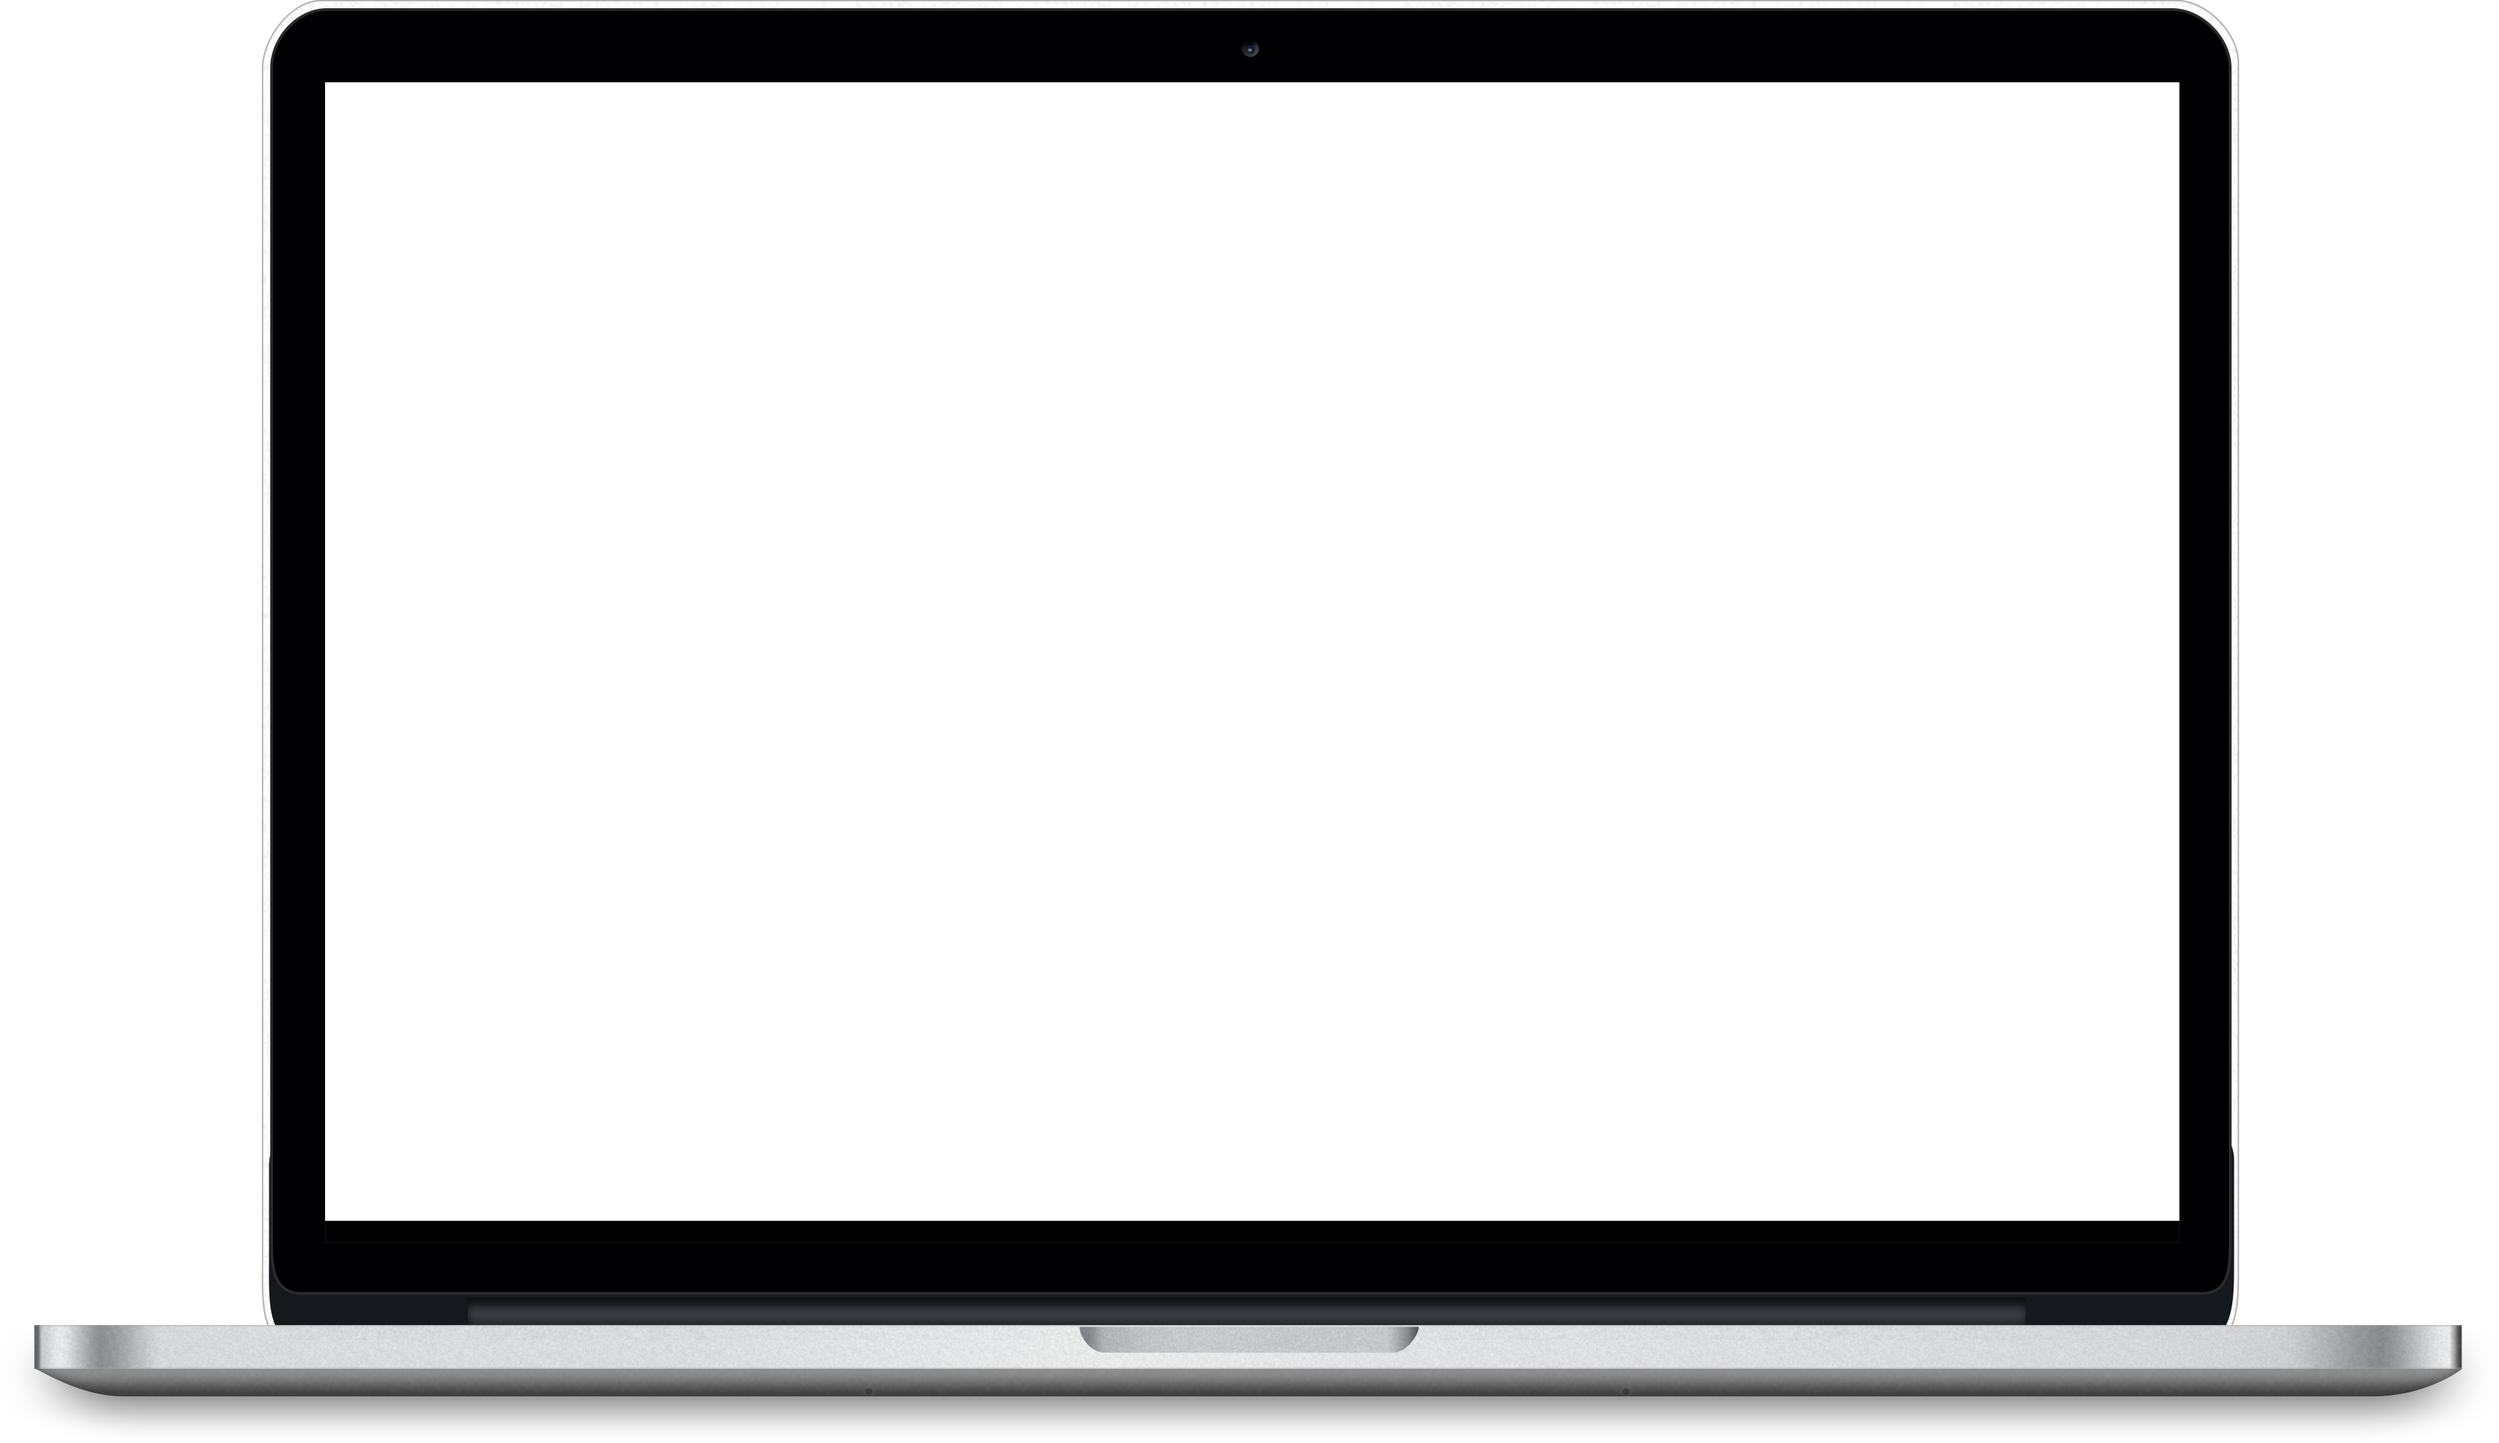
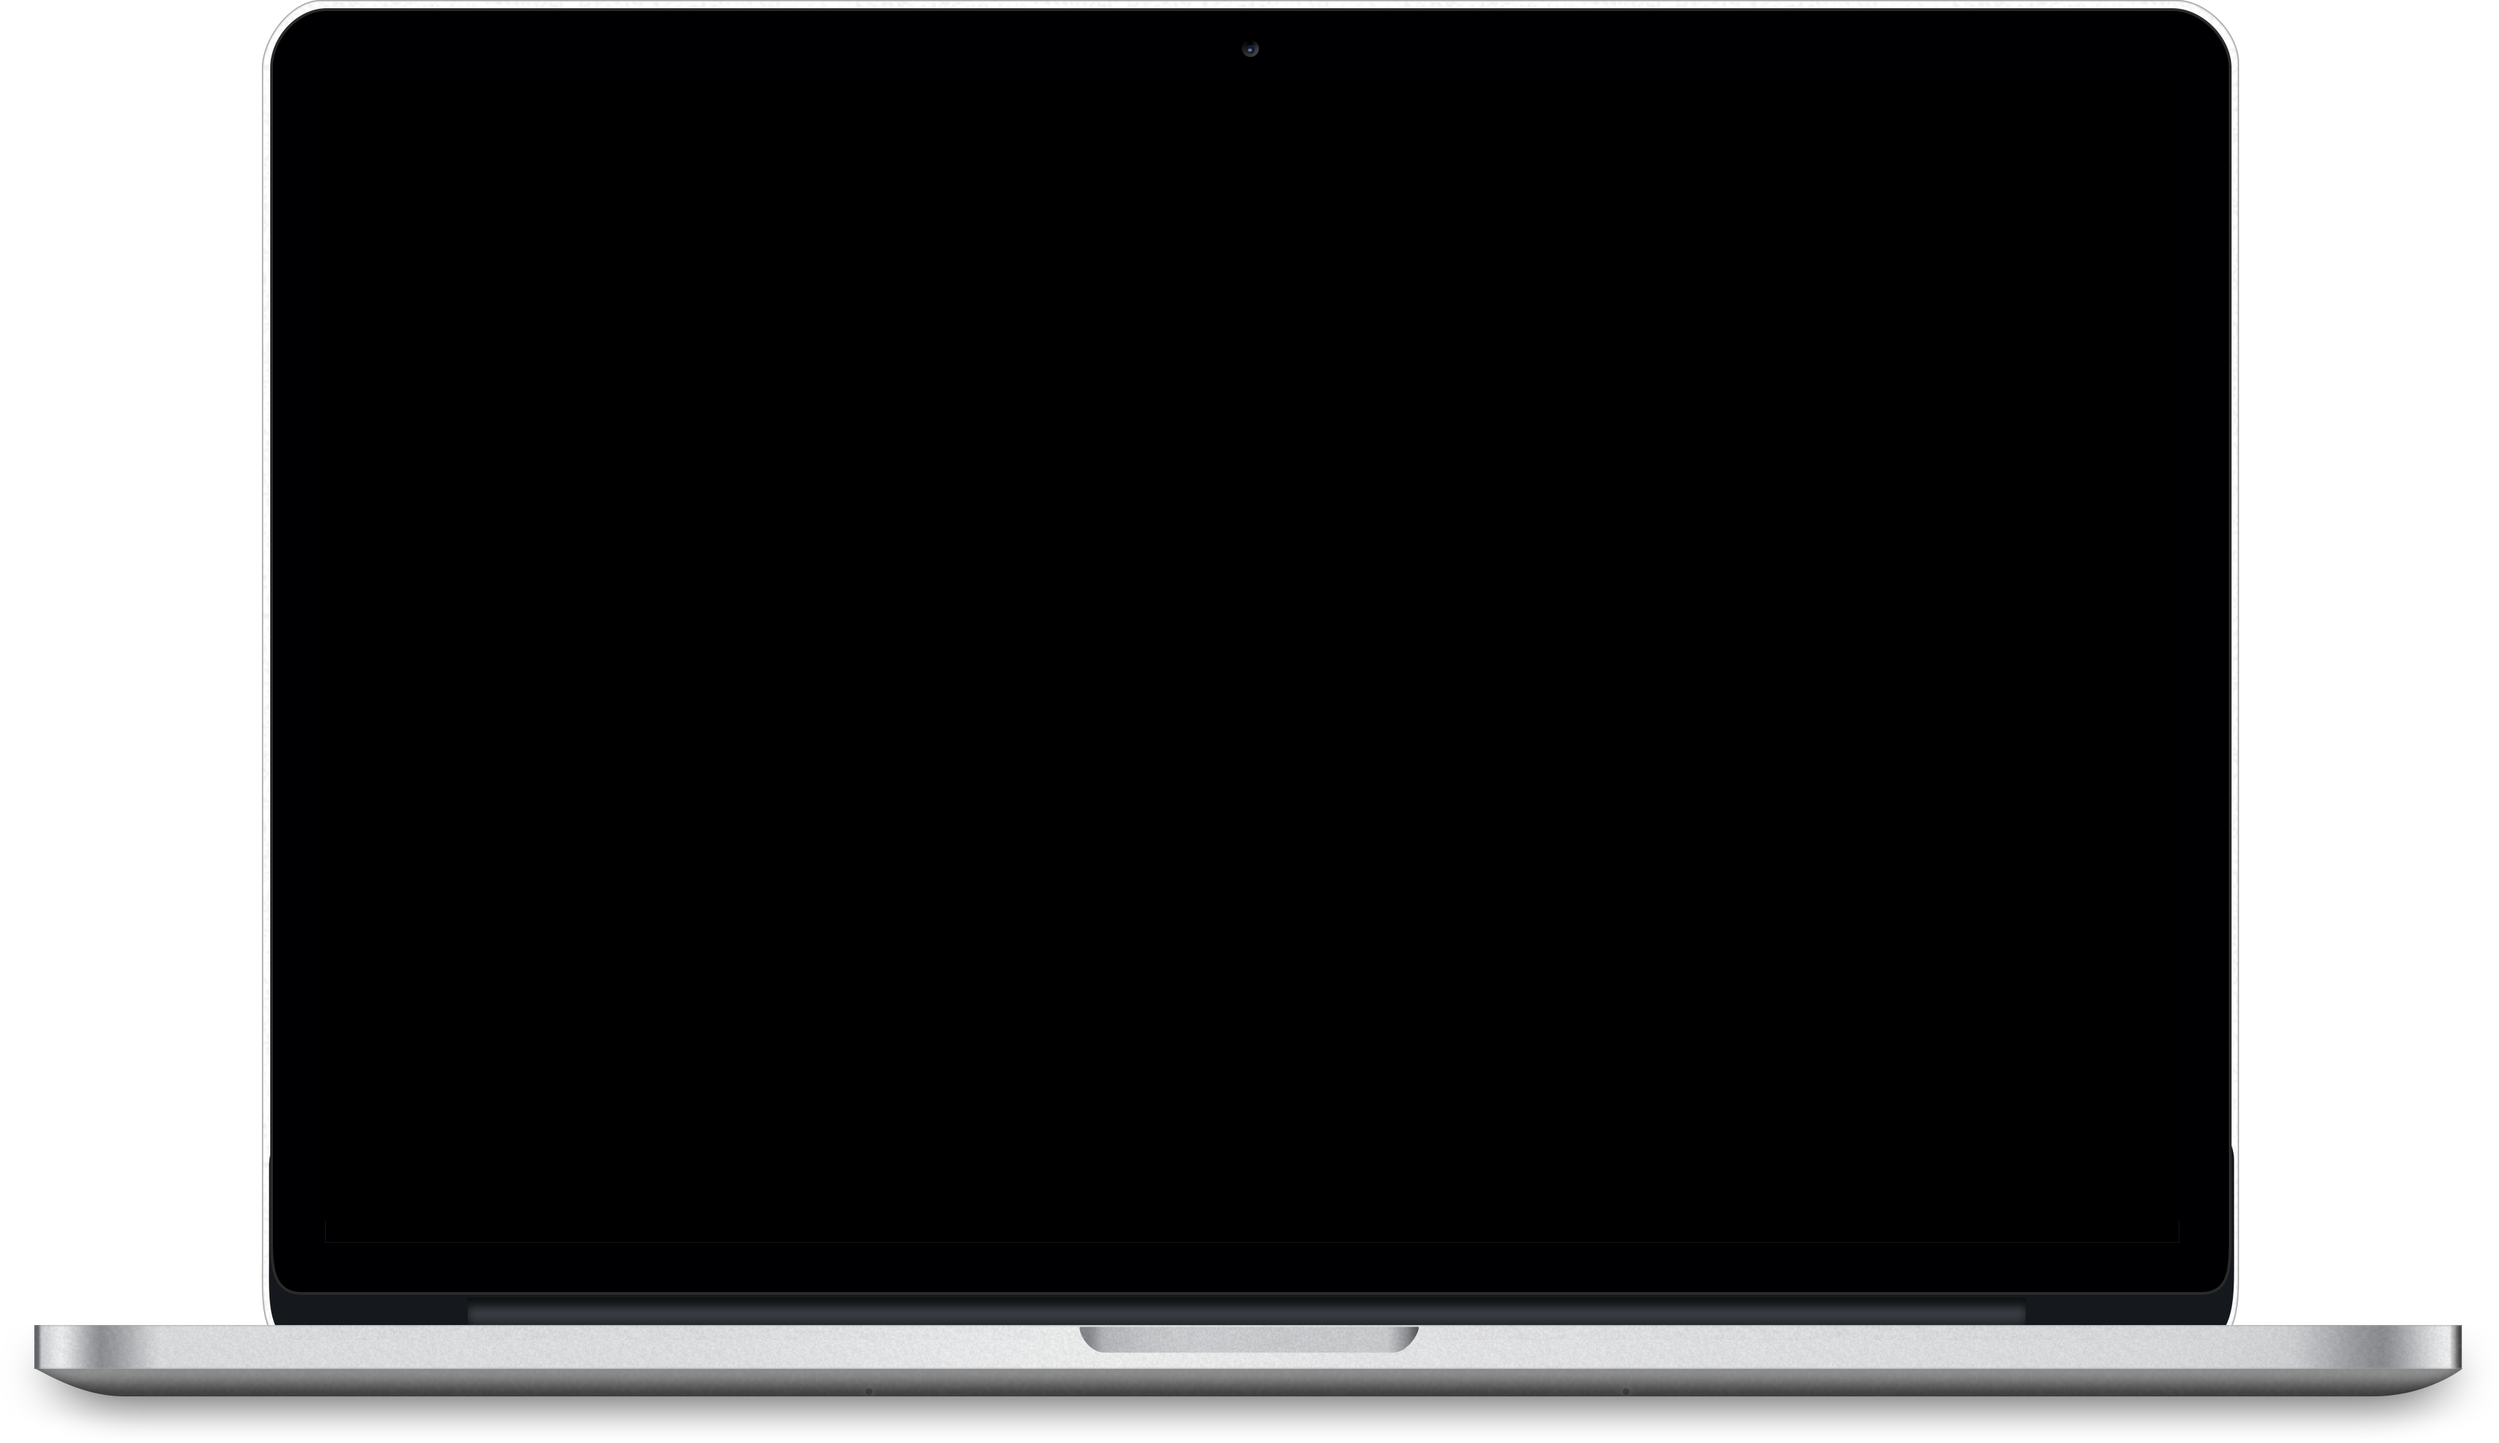
update 8 files

diff --git a/docs/js/view_project.js b/docs/js/view_project.js
@@ -41,6 +41,7 @@ function processData(snapshot) {
   var githubLink = snapshotData.github_link;
   var banner_image_URL = snapshotData.banner_image_URL;
   var demoDownloadURL = snapshotData.demo_file_URL;
+  var demo_type = snapshotData.demo_type;
 
   const text_project_title = document.querySelector(".project_title");
   const project_desc = document.querySelector(".project_desc");
@@ -49,7 +50,15 @@ function processData(snapshot) {
   const tech_stack = document.querySelector(".tech_stack");
   const btn_github_anchor = document.querySelector(".btn_github_anchor");
   const project_info_text = document.querySelector(".project_info_text");
-  const mockup_video_laptop = document.querySelector(".mockup_video_laptop");
+  const mockupContainer = document.querySelectorAll(".mockup_container");
+
+  const mockup_media_laptop = document.querySelector(
+    ".mockup_media_laptop.video"
+  );
+
+  const mockup_media_mobile = document.querySelector(
+    ".mockup_media_mobile.video"
+  );
 
   // Set icon for project time to mobile or pc
   if (projectType.includes("Mobile")) {
@@ -64,9 +73,49 @@ function processData(snapshot) {
   p_type_text.innerHTML = projectType;
   project_info_text.innerHTML = projectDesc;
   project_desc.remove();
-  mockup_video_laptop.src = demoDownloadURL;
   console.log("demo url: " + demoDownloadURL);
   // project_desc.innerHTML = projectDesc;
+
+  // if (demoDownloadURL.includes(".mp4")) {
+  //   mockup_media_laptop = document.querySelector(".mockup_media_laptop.video");
+  //   mockup_media_mobile = document.querySelector(".mockup_media_mobile.video");
+  // } else if (
+  //   demoDownloadURL.includes(".jpg") ||
+  //   demoDownloadURL.includes(".png")
+  // ) {
+  //   mockup_media_laptop = document.querySelector(".mockup_media_laptop.image");
+  //   mockup_media_mobile = document.querySelector(".mockup_media_mobile.image");
+  // }
+
+  if (demo_type == "demo_pc") {
+    document.querySelector(".mockup_pc").classList.add("visible");
+    mockupContainer.forEach((mockupContainerelement) => {
+      mockupContainerelement.classList.add("pc");
+    });
+    mockup_media_laptop.src = demoDownloadURL;
+    console.log("pc demo made visible");
+  } else if (demo_type == "demo_mobile") {
+    document.querySelector(".mockup_phone").classList.add("visible");
+    mockup_media_mobile.src = demoDownloadURL;
+    console.log("mobile demo made visible");
+  } else {
+    mockupContainer.forEach((mockupContainerelement) => {
+      mockupContainerelement.classList.add("pc");
+    });
+    const mockup_media_laptop_image = document.querySelector(
+      ".mockup_media_laptop.image"
+    );
+
+    const mockup_media_laptop_video = document.querySelector(
+      ".mockup_media_laptop.video"
+    );
+    document.querySelector(".mockup_pc").classList.add("visible");
+
+    mockup_media_laptop_image.src = demoDownloadURL;
+    mockup_media_laptop_image.style.display = "block";
+    mockup_media_laptop_video.style.display = "none";
+    console.log("No Mockup found in database.");
+  }
 
   // Set icons for tech stack
   var projectTechStack_values = projectTechStack.trim().split(",");
@@ -114,30 +163,90 @@ document.addEventListener("DOMContentLoaded", function () {
   const cursoricon3 = document.getElementById("cursoricon3");
   const cursoricon5 = document.getElementById("cursoricon5");
 
-  button_primary.addEventListener("mouseover", () => {
-    cursorTransformShadowBlend("scale(1.5)", "none");
-    addClass(cursor, "transparent");
-    addClass(cursoricon5, "active");
-  });
+  if (button_primary) {
+    button_primary.addEventListener("mouseover", () => {
+      cursorTransformShadowBlend("scale(1.5)", "none");
+      addClass(cursor, "transparent");
+      addClass(cursoricon5, "active");
+    });
 
-  button_primary.addEventListener("mouseout", () => {
-    removeClass(cursor, "transparent");
-    removeClass(cursoricon5, "active");
-    cursorTransformShadowBlend();
-  });
+    button_primary.addEventListener("mouseout", () => {
+      removeClass(cursor, "transparent");
+      removeClass(cursoricon5, "active");
+      cursorTransformShadowBlend();
+    });
+  }
 
-  button_secondary.addEventListener("mouseover", () => {
-    cursorTransformShadowBlend("scale(1.5)", "none");
-    addClass(cursor, "transparent");
-    addClass(cursoricon5, "active");
-  });
+  if (button_secondary) {
+    button_secondary.addEventListener("mouseover", () => {
+      cursorTransformShadowBlend("scale(1.5)", "none");
+      addClass(cursor, "transparent");
+      addClass(cursoricon5, "active");
+    });
 
-  button_secondary.addEventListener("mouseout", () => {
-    removeClass(cursor, "transparent");
-    removeClass(cursoricon5, "active");
-    cursorTransformShadowBlend();
-  });
+    button_secondary.addEventListener("mouseout", () => {
+      removeClass(cursor, "transparent");
+      removeClass(cursoricon5, "active");
+      cursorTransformShadowBlend();
+    });
+  }
+
+  hoverDevices();
 });
+
+function hoverDevices() {
+  const mockups = document.querySelectorAll(".mockup");
+  const mockup_pc = document.querySelector(".mockup_pc");
+  const mockup_phone = document.querySelector(".mockup_phone");
+  const mockup_media_mobile = document.querySelector(".mockup_media_mobile");
+  const mockup_media_laptop = document.querySelector(".mockup_media_laptop");
+  const cursortext = document.getElementById("cursortext");
+
+  cursortext.style.color = "black";
+  cursortext.innerHTML = 'Pause<br><i class="fa-solid fa-pause"></i>';
+
+  mockups.forEach((mockup) => {
+    mockup.addEventListener("mouseover", () => {
+      cursorTransformShadowBlend("scale(7)");
+      cursor.style.boxShadow = "none";
+      cursor.style.outlineWidth = "0.01em";
+      cursor.style.outlineColor = "black";
+      cursor.style.outlineStyle = "solid";
+      cursortext.classList.add("active");
+    });
+
+    mockup.addEventListener("mouseout", () => {
+      cursor.style.outline = "none";
+      cursor.style.transform = "none";
+      cursor.style.mixBlendMode = "normal";
+      cursor.style.boxShadow = "0px 0px 30px white";
+      cursortext.classList.remove("active");
+    });
+  });
+
+  let flag_playing_once = true;
+
+  // ! Change this
+  // const playPauseVideo = (videoElement) => {
+  //   if (videoElement.paused) {
+  //     videoElement.style.filter = "brightness(30%)";
+  //     cursortext.innerHTML = 'Play<br><i class="fa-solid fa-play"></i>';
+  //     videoElement.play();
+  //   } else {
+  //     videoElement.style.filter = "brightness(100%)";
+  //     cursortext.innerHTML = 'Pause<br><i class="fa-solid fa-pause"></i>';
+  //     videoElement.pause();
+  //   }
+  // };
+
+  // mockup_phone.addEventListener("click", () => {
+  //   playPauseVideo(mockup_media_mobile);
+  // });
+
+  // mockup_pc.addEventListener("click", () => {
+  //   playPauseVideo(mockup_media_laptop);
+  // });
+}
 
 function cursorTransformShadowBlend(
   param_transform = "none",

diff --git a/docs/css/view_project.css b/docs/css/view_project.css
@@ -16,15 +16,6 @@ section {
 }
 
 .subcontent1_titledesc {
-  /* display: flex;
-  justify-content: center;
-  width: 100%;
-  text-align: center;
-  margin-top: 10%;
-  z-index: 1;
-  position: relative;
-  flex-direction: row; */
-
   width: 100%;
   display: flex;
   flex-direction: column;
@@ -61,40 +52,97 @@ section {
   max-width: 1300px;
   width: 100%;
   position: relative;
+  display: none;
 }
 
-.mockup-container {
+.mockup.visible {
+  display: contents;
+}
+
+.mockup_container {
   position: relative;
   width: 100%;
-  padding-top: 65%;
+  padding-bottom: 1000px;
+  justify-content: center;
+  display: flex;
+}
+
+.mockup_container.pc {
+  padding-bottom: 800px;
+}
+
+.mockup_media_laptop,
+.mockup_media_mobile {
+  transition: filter 0.2s ease;
+}
+
+.mockup_mobile {
+  min-width: fit-content;
+  max-width: fit-content;
+  height: 850px;
+  position: absolute;
+  top: 10%;
+  filter: brightness(80%);
+  z-index: 2;
 }
 
 .mockup_laptop {
+  min-width: fit-content;
+  max-width: fit-content;
+  max-height: 700px;
+  min-height: 700px;
   position: absolute;
   top: 10%;
   width: 100%;
-  display: block;
   filter: brightness(80%);
 }
 
-.video-container {
+.container-laptop,
+.container-mobile {
   position: absolute;
-  left: 12%;
-  top: 15%;
-  width: 76%;
   z-index: 1;
   cursor: none;
   overflow: hidden;
 }
 
-.mockup_video_laptop {
-  max-width: 1100px;
-  width: 100%;
+.container-mobile {
+  top: 11.5%;
+  border-radius: 54px;
+  overflow: hidden;
 }
 
-.mockup_video_laptop:hover {
-  pointer-events: stroke;
-  cursor: none;
+.container-laptop {
+  top: 15.5%;
+  border-radius: 20px;
+  overflow: hidden;
+}
+
+.mockup_media_laptop {
+  max-height: 525px;
+  min-height: 525px;
+  height: 100%;
+  z-index: 1;
+}
+
+.mockup_media_mobile {
+  min-height: 820px;
+  max-height: 820px;
+  height: 100%;
+  /* max-width: 390px;
+  min-width: 390px; */
+  width: 100%;
+  position: relative;
+  z-index: -1;
+}
+
+.mockup_media_laptop.image {
+  /* max-height: 100%;
+  min-height: 100%; */
+  display: none;
+}
+
+.mockup_media_mobile.visible {
+  display: contents;
 }
 
 .project_type {

diff --git a/docs/view_project.html b/docs/view_project.html
@@ -91,13 +91,32 @@
         </div>
 
         <div class="subcontent2">
-            <div class="mockup">
-                <div class="mockup-container">
-                    <img src="images/macbook.png" class="mockup_laptop">
-                    <div class="video-container">
-                        <video controls class="mockup_video_laptop" autoplay
+            <div class="mockup mockup_phone">
+                <div class="mockup_container">
+                    <img loading="eager" src="images/iPhone.png" class="mockup_mobile image">
+
+                    <div class="container-mobile">
+                        <!-- <img src="" class="mockup_media_mobile image"> -->
+
+                        <video class="mockup_media_mobile video" autoplay loop>
+                            <source src="" type="video/mp4">
+                            Your browser does not support the video tag.
+                        </video>
+
+
+                    </div>
+                </div>
+            </div>
+
+            <div class="mockup mockup_pc">
+                <div class="mockup_container">
+                    <img src="images/macbook.png" class="mockup_laptop image">
+                    <div class="container-laptop">
+                        <img loading="eager" src="" class="mockup_media_laptop image">
+
+                        <video loading="eager" controls class="mockup_media_laptop video" autoplay
                             controlsList="nodownload noplaybackrate noremoteplayback" disablePictureInPicture loop>
-                            <source src="videos/test2.mp4" type="video/mp4">
+                            <source src="" type="video/mp4">
                             Your browser does not support the video tag.
                         </video>
                     </div>

diff --git a/docs/admin_panel.html b/docs/admin_panel.html
@@ -68,8 +68,10 @@
             <span><br>Demo Type?<br><br></span>
             <input type="radio" id="demo_type1" name="demo_type" value="demo_pc">
             <label for="demo_type1">PC (Laptop/Computer)</label><br>
-            <input type="radio" id="demo_type2" name="demo_type" value="demo_laptop">
+            <input type="radio" id="demo_type2" name="demo_type" value="demo_mobile">
             <label for="demo_type2">Mobile</label><br>
+            <input type="radio" id="demo_type3" name="demo_type" value="demo_pc_image">
+            <label for="demo_type3">PC Image</label><br>
         </label>
         <br>
 

diff --git a/docs/css/resume.css b/docs/css/resume.css
@@ -27,7 +27,6 @@ section {
 .titlediv {
   margin-top: 10%;
   width: 100%;
-  text-align: center;
 }
 
 .title {
@@ -35,6 +34,16 @@ section {
   color: white;
   font-family: Helvs;
   font-weight: bold;
+  text-align: center;
+}
+
+.subtitle {
+  color: rgb(170, 170, 170);
+  font-family: Helvs;
+  width: 100%;
+  font-size: 0.9em;
+  text-align: center;
+  white-space: nowrap;
 }
 
 .resume_image {

diff --git a/docs/resume.html b/docs/resume.html
@@ -63,6 +63,7 @@
     <section class="section1">
         <div class="titlediv">
             <h1 class="title">My Resume</h1>
+            <h6 class="subtitle">Last Updated 1st Feb 2024</h6>
         </div>
         <div class="subcontent1">
             <img src="images/Resume.png" class="resume_image">
